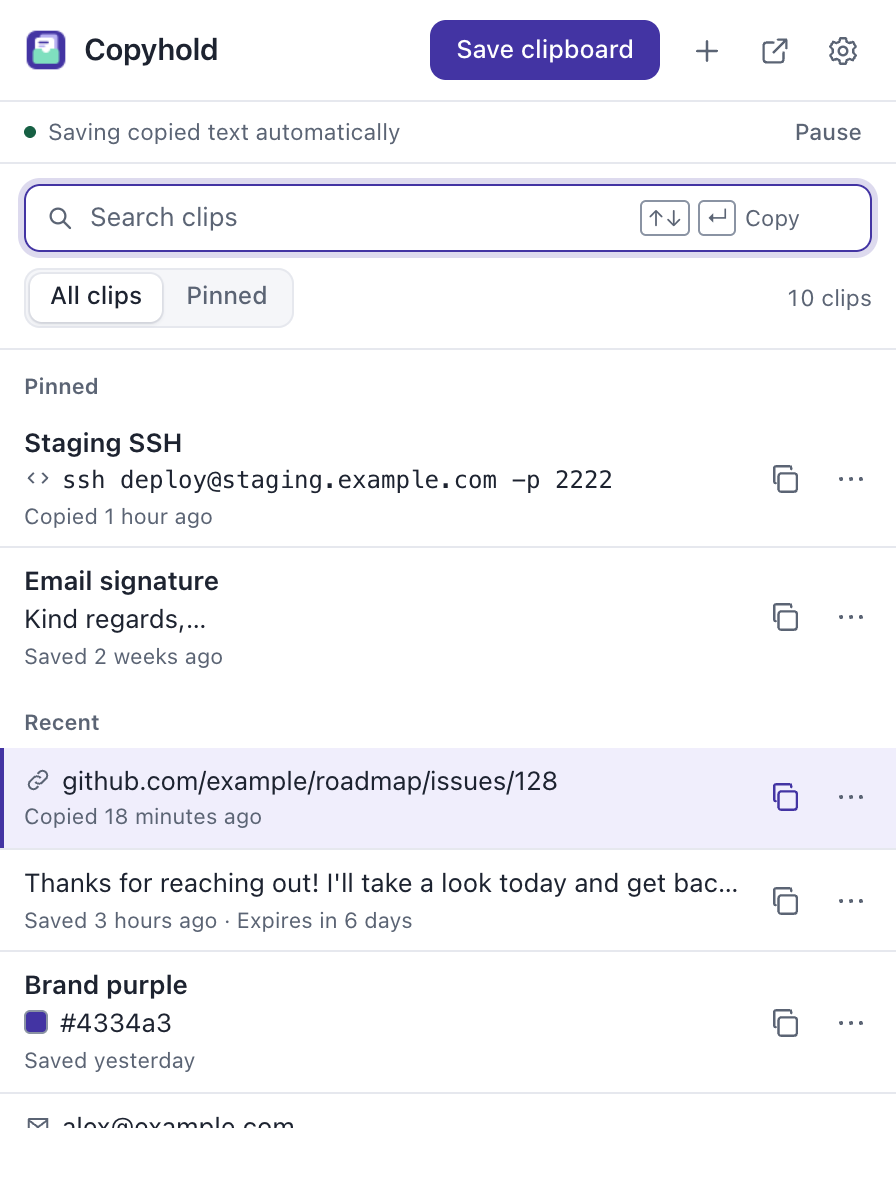
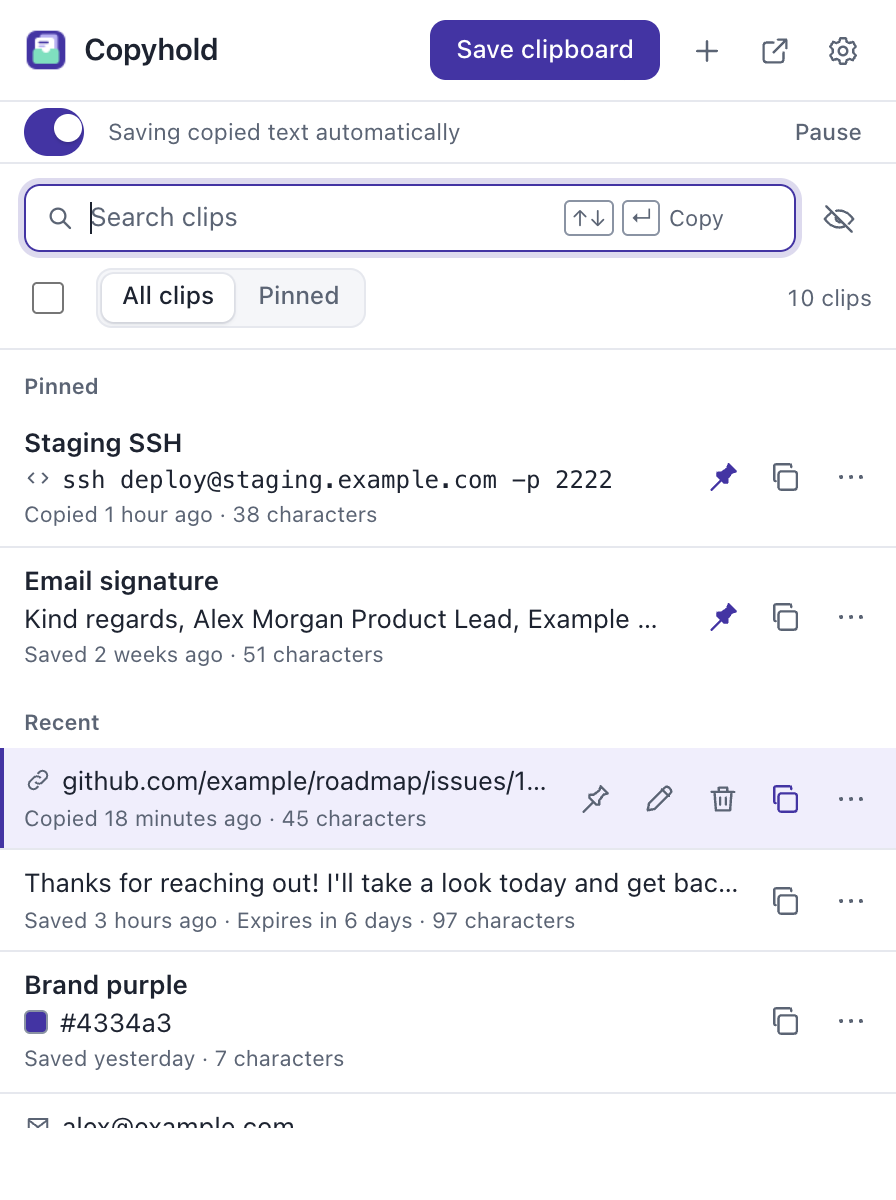
Prepare Chrome Web Store assets and refresh the website
- Add store screenshots (1280x800), small and marquee promo tiles, and
  the store icon under docs/store-assets/, made from the real popup.
- Update the store listing with the 1.1.0 features, the image list,
  which package to upload, and the privacy, website, and support URLs.
- Refresh the website with 1.1.0 screenshots: compact view, the actions
  menu, bulk selection, hidden previews, the editor, and the first-run
  question; add Compact view and Bulk actions feature cards and a link
  to what's new.

diff --git a/site/index.html b/site/index.html
@@ -39,7 +39,7 @@
             </a>
             <a class="button secondary" href="#install">How to install</a>
           </div>
-          <p class="note">Coming soon to the Chrome Web Store. Until then, install it from the download in under a minute.</p>
+          <p class="note">Version 1.1.0 · <a href="https://github.com/nevin/copyhold/releases/latest">What's new</a>. Coming soon to the Chrome Web Store; until then, install it from the download in under a minute.</p>
         </div>
         <div class="frame">
           <img src="screenshots/popup-list.png" width="896" height="1200" alt="The Copyhold popup listing pinned and recent clips, with a search field and a highlighted link clip.">
@@ -72,7 +72,7 @@
           <div class="feature">
             <div class="icon"><svg viewBox="0 0 24 24" aria-hidden="true"><path d="M3 3l18 18M10 6.2c.6-.1 1.3-.2 2-.2 6.4 0 10 6 10 6a16 16 0 0 1-3 3.4M6.2 7.8A17 17 0 0 0 2 12s3.6 6 10 6c1.5 0 2.9-.3 4.1-.9"/></svg></div>
             <h3>Sensitive text stays out of sight</h3>
-            <p>Mask or hide a clip's preview so keys and passwords don't show on screen, and still copy the original with one click.</p>
+            <p>Mask or hide a clip's preview, or hide every preview with one click while you share your screen. Copying still uses the original text.</p>
           </div>
           <div class="feature">
             <div class="icon"><svg viewBox="0 0 24 24" aria-hidden="true"><circle cx="12" cy="12" r="8"/><path d="M12 8v4l3 2"/></svg></div>
@@ -84,6 +84,16 @@
             <h3>Fast with big histories</h3>
             <p>Search stays instant with thousands of clips. Links, code, emails, and colors are recognized at a glance.</p>
           </div>
+          <div class="feature">
+            <div class="icon"><svg viewBox="0 0 24 24" aria-hidden="true"><path d="M4 6h16M4 10h16M4 14h16M4 18h16"/></svg></div>
+            <h3>Compact view</h3>
+            <p>Fit twice as many clips with one line each, showing how long ago you used it and how long it is.</p>
+          </div>
+          <div class="feature">
+            <div class="icon"><svg viewBox="0 0 24 24" aria-hidden="true"><path d="M9 11l3 3 8-8M20 12v7a1 1 0 0 1-1 1H5a1 1 0 0 1-1-1V5a1 1 0 0 1 1-1h11"/></svg></div>
+            <h3>Bulk actions</h3>
+            <p>Select all, then copy several clips at once, pin them, or clear them out. Deleting one clip can always be undone.</p>
+          </div>
         </div>
       </div>
     </section>
@@ -94,14 +104,22 @@
           <h2>A closer look</h2>
           <p>Light and dark themes follow your system, or pick one in Settings.</p>
         </div>
-        <div class="gallery">
+        <div class="gallery three">
           <figure>
-            <div class="frame"><img src="screenshots/popup-menu.png" width="896" height="1200" loading="lazy" alt="The actions menu for a clip, listing Preview, Open link, Mask text, Pin, Edit, Select, and Delete with letter shortcuts."></div>
-            <figcaption><strong>Every action, one key away</strong>Press Shift+Enter or select the menu to preview, mask, pin, edit, or delete.</figcaption>
+            <div class="frame"><img src="screenshots/popup-compact-dark.png" width="896" height="1200" loading="lazy" alt="Compact view in the dark theme: one line per clip with its age, length, and row actions for pin, edit, and delete."></div>
+            <figcaption><strong>Compact view</strong>One line per clip, with when you last used it and how long it is. Pin, edit, or delete right from the row.</figcaption>
           </figure>
           <figure>
-            <div class="frame"><img src="screenshots/popup-dark.png" width="896" height="1200" loading="lazy" alt="The Copyhold popup in the dark theme."></div>
-            <figcaption><strong>Dark theme</strong>Matches your system, or choose Light or Dark.</figcaption>
+            <div class="frame"><img src="screenshots/popup-menu.png" width="896" height="1200" loading="lazy" alt="The actions menu for a clip, listing Preview, Open link, Mask text, Pin, Edit, Select, and Delete with letter shortcuts."></div>
+            <figcaption><strong>Every action, one key away</strong>Press Shift+Enter for the menu, then the letter for what you need.</figcaption>
+          </figure>
+          <figure>
+            <div class="frame"><img src="screenshots/popup-select.png" width="896" height="1200" loading="lazy" alt="Three clips selected, with Copy, Pin, and Delete buttons for the selection."></div>
+            <figcaption><strong>Work with many clips</strong>Select all, then copy, pin, or delete them together.</figcaption>
+          </figure>
+          <figure>
+            <div class="frame"><img src="screenshots/popup-hidden.png" width="896" height="1200" loading="lazy" alt="Every clip's text replaced by its first three characters after selecting the eye button."></div>
+            <figcaption><strong>Hide every preview</strong>One click hides all clip text while you share your screen.</figcaption>
           </figure>
           <figure>
             <div class="frame"><img src="screenshots/popup-editor.png" width="896" height="1280" loading="lazy" alt="Editing a clip, with quick expiry choices of 1 hour, 1 day, 1 week, or never, and preview options."></div>
@@ -109,7 +127,7 @@
           </figure>
           <figure>
             <div class="frame"><img src="screenshots/popup-prompt.png" width="896" height="940" loading="lazy" alt="The first-run question asking whether to save copied text automatically, with Turn on and Not now buttons."></div>
-            <figcaption><strong>You decide what gets saved</strong>Automatic saving asks first and explains exactly what it does.</figcaption>
+            <figcaption><strong>You decide what gets saved</strong>Automatic saving asks first, and the switch at the top turns it on or off anytime.</figcaption>
           </figure>
         </div>
         <figure class="gallery wide">

diff --git a/site/style.css b/site/style.css
@@ -92,6 +92,7 @@ kbd { padding: 1px 6px; border: 1px solid var(--line); border-radius: 5px; backg
 .gallery figure { margin: 0; }
 .gallery figcaption { margin-block-start: 12px; color: var(--muted); font-size: .93rem; }
 .gallery figcaption strong { display: block; color: var(--text); }
+.gallery.three { grid-template-columns: repeat(auto-fit, minmax(280px, 1fr)); }
 .wide { margin-block-start: 32px; }
 
 .steps { display: grid; gap: 16px; padding: 0; margin: 0; list-style: none; counter-reset: step; }

diff --git a/docs/store-listing.md b/docs/store-listing.md
@@ -15,9 +15,13 @@ Text to paste into the Chrome Web Store developer dashboard and Firefox Add-ons 
 >
 > **Save what you copy.** Select Save clipboard, or turn on automatic saving in Chrome and Edge and Copyhold saves text as you copy it. Automatic saving is off until you choose to turn it on, and you can pause it at any time.
 >
-> **Find it fast.** Open Copyhold with Alt+Shift+Y, type to search, use the arrow keys, and press Enter to copy. Alt+1 to Alt+9 copy the first nine clips. Pin the clips you use most.
+> **Find it fast.** Open Copyhold with Alt+Shift+Y, type to search, use the arrow keys, and press Enter to copy. Alt+1 to Alt+9 copy the first nine clips. Pin the clips you use most. Search stays instant with thousands of clips.
 >
-> **Keep sensitive text out of sight.** Mask or hide a clip's preview, set clips to delete themselves after an hour, a day, a week, or on a date you choose, or give all new clips a default retention period.
+> **See more at once.** Switch to compact view for one line per clip, with when you last used it and how long it is. Pin, edit, or delete right from the row, and undo a delete if you change your mind.
+>
+> **Work with many clips.** Select all, then copy, pin, or delete them together.
+>
+> **Keep sensitive text out of sight.** Mask or hide a clip's preview, or hide every preview with one click while you share your screen. Set clips to delete themselves after an hour, a day, a week, or on a date you choose, give all new clips a default retention period, or cap your history size.
 >
 > **Private by design.** Your clips stay in your browser profile. Copyhold has no servers, no accounts, no analytics, and makes no network requests.
 >
@@ -58,11 +62,25 @@ Certify all three statements:
 - The code is not minified or bundled, so no separate source upload is needed.
 - Firefox has no automatic saving; say so in the description, as the draft above does.
 
-## Images to prepare
+## Images
 
-| Asset | Size | Notes |
+Ready to upload from `docs/store-assets/`, made from the real popup with sample text:
+
+| Asset | File | Size |
 |---|---|---|
-| Store icon | 128×128 | `src/icons/128.png`, already in the package |
-| Screenshots | 1280×800 or 640×400, 1 to 5 | The popup with a few clips, the actions menu, the editor's Expiry and privacy section, the first-run prompt, and the full-tab view. Use sample text, never real clipboard contents. |
-| Small promo tile | 440×280 | The icon with the name and summary on the purple background |
-| Marquee promo tile (optional) | 1400×560 | Only needed if the store features the extension |
+| Store icon | `icon-128.png` (same as `src/icons/128.png`) | 128×128 |
+| Screenshot 1 | `screenshot-1.png`: the popup and search | 1280×800 |
+| Screenshot 2 | `screenshot-2.png`: compact view | 1280×800 |
+| Screenshot 3 | `screenshot-3.png`: the actions menu | 1280×800 |
+| Screenshot 4 | `screenshot-4.png`: hidden previews and per-clip privacy | 1280×800 |
+| Screenshot 5 | `screenshot-5.png`: selecting several clips | 1280×800 |
+| Small promo tile | `promo-small-440x280.png` | 440×280 |
+| Marquee promo tile (optional) | `promo-marquee-1400x560.png` | 1400×560 |
+
+## Package
+
+Upload `copyhold-<version>-chromium.zip` from `npm run package`, or download it from the matching GitHub release. It has `manifest.json` at the root, as the store requires. Don't upload `copyhold-chromium.zip`, which wraps the files in a folder for manual installs.
+
+Privacy policy URL: https://nevin.github.io/copyhold/privacy.html
+Website: https://nevin.github.io/copyhold/
+Support: https://github.com/nevin/copyhold/issues
